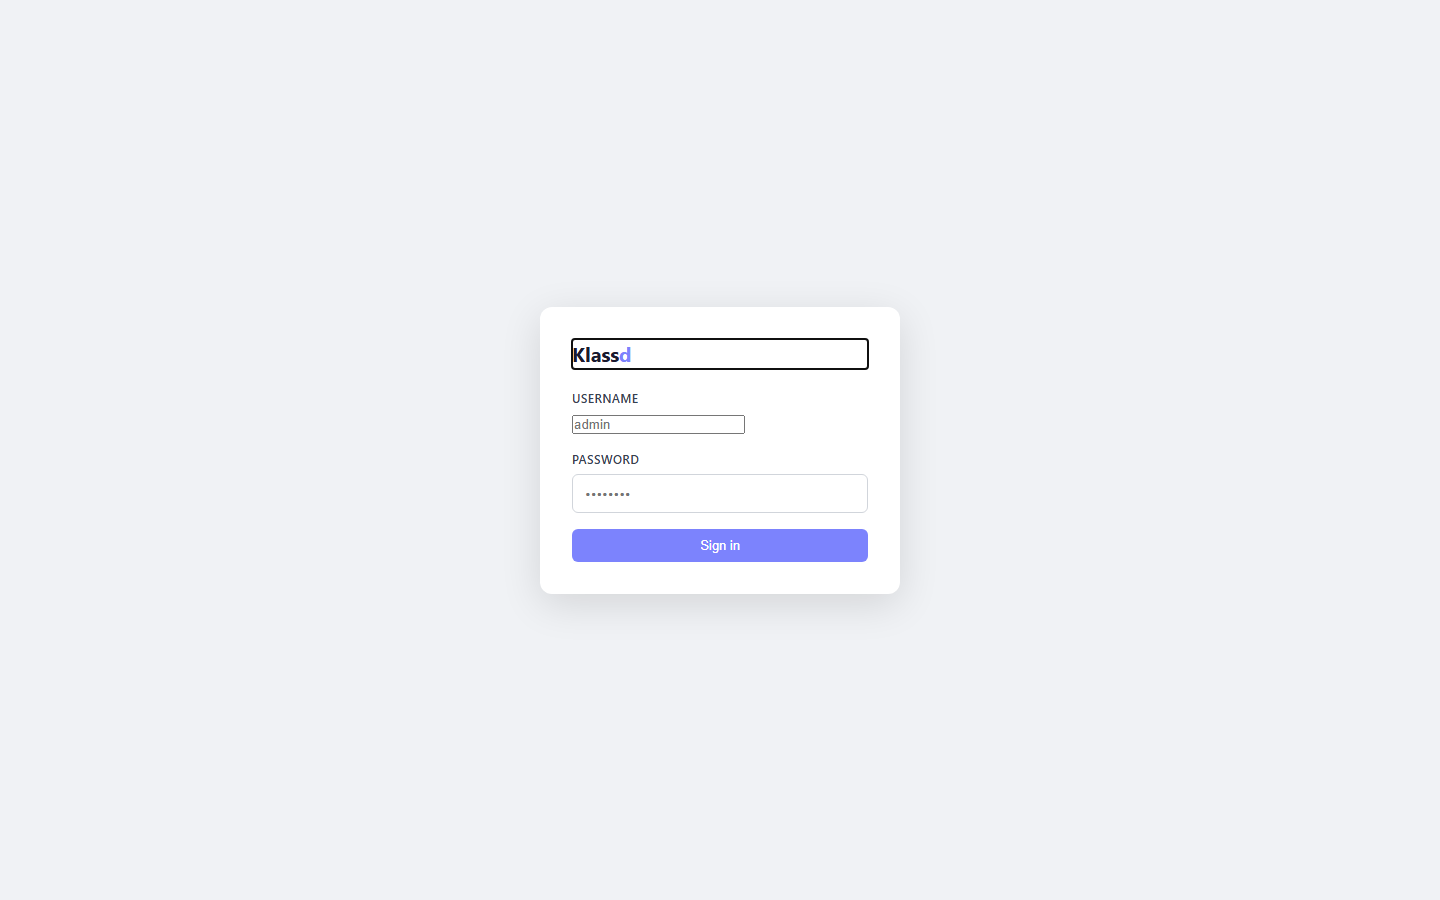
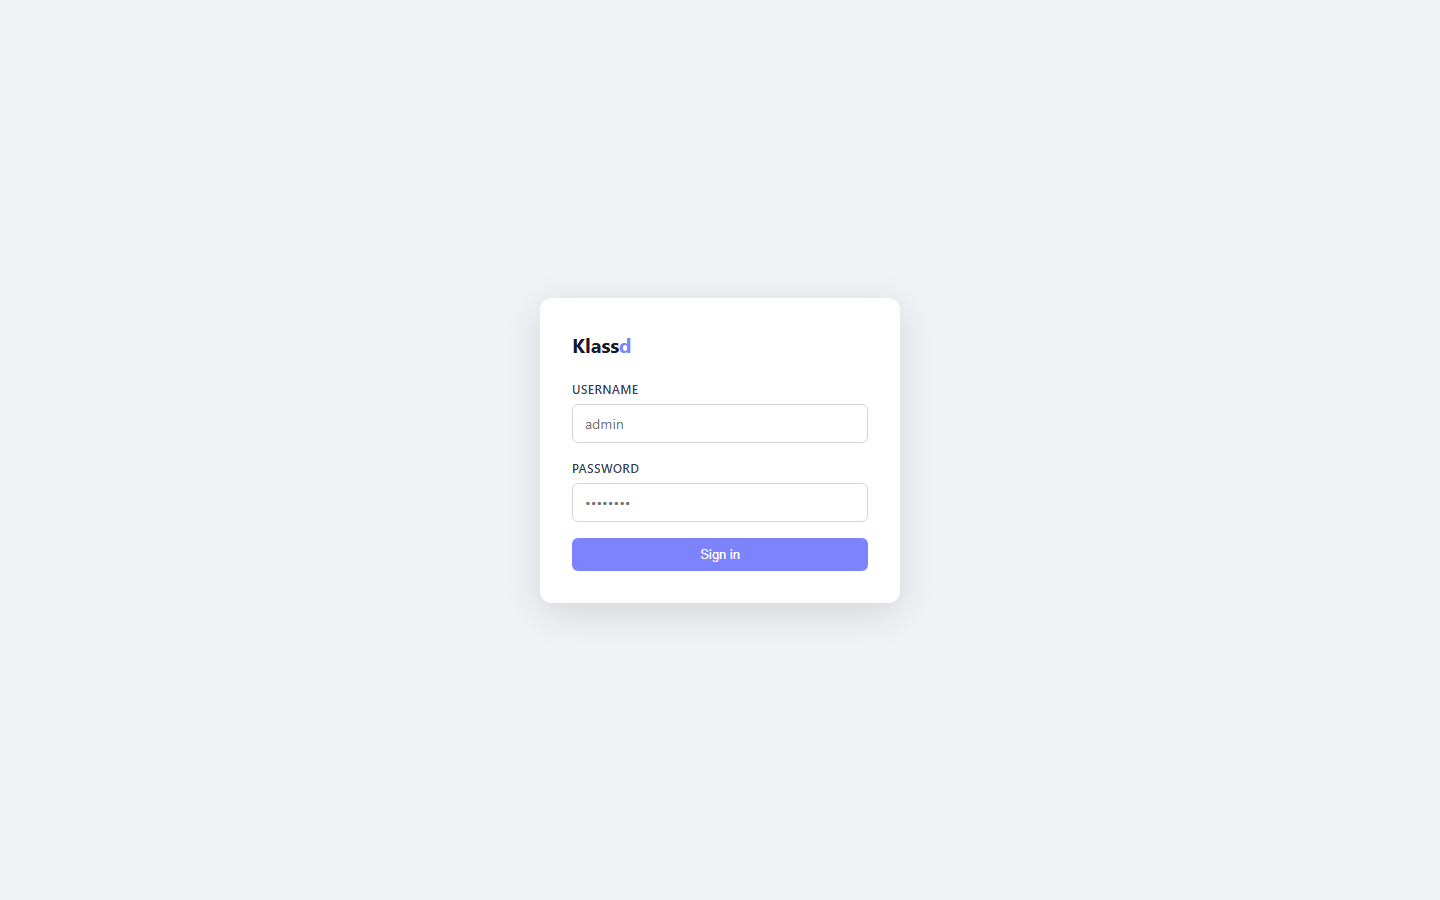
fix: correct login input styling and tidy login screenshot
- Login.razor: the username field had no `type` attribute, so the
  `input[type="text"]` rule never matched it — it rendered narrow and
  unstyled next to the full-width password box. Add `type="text"`.
- Screenshot capture: blur the auto-focused <h1> before the login shot so
  the navigation focus outline (mouse users never see it) is not captured.
- README: include all six admin screenshots in the gallery.

Changed region(s): [[0.375, 0.3733, 0.625, 0.6844]]

diff --git a/tests/Klassd.UiTests/ScreenshotCaptureTests.cs b/tests/Klassd.UiTests/ScreenshotCaptureTests.cs
@@ -63,6 +63,9 @@ public class ScreenshotCaptureTests : PageTest
         // ── 1. Login screen ───────────────────────────────────────────
         await Page.GotoAsync(Url("/admin/login"));
         await Expect(Page.Locator(".login-card")).ToBeVisibleAsync();
+        // The app focuses the main <h1> on navigation (accessibility); that shows a focus outline
+        // on the heading. Mouse users never see it, but it's noise in a screenshot — clear focus.
+        await Page.EvaluateAsync("() => (document.activeElement && document.activeElement.blur) && document.activeElement.blur()");
         await ShotAsync("01-login.png", fullPage: false);
 
         // Sign in with the seeded admin account.

diff --git a/README.md b/README.md
@@ -25,11 +25,13 @@ No content-type designer, no database migrations to hand-write, no JavaScript bu
 The Blazor admin at `/admin` is generated from your C# content types — no JavaScript build step,
 no separate schema to maintain. Pages, blocks, fields, media and localization all come from your code.
 
-| Page tree | Page editor (fields + blocks) |
+| Sign in | Page tree |
 |:---:|:---:|
-| [![Pages](docs/images/02-pages.png)](docs/images/02-pages.png) | [![Page editor](docs/images/03-page-editor.png)](docs/images/03-page-editor.png) |
-| **Media library** | **Users** |
-| [![Media](docs/images/04-media.png)](docs/images/04-media.png) | [![Users](docs/images/05-users.png)](docs/images/05-users.png) |
+| [![Sign in](docs/images/01-login.png)](docs/images/01-login.png) | [![Pages](docs/images/02-pages.png)](docs/images/02-pages.png) |
+| **Page editor (fields + blocks)** | **Media library** |
+| [![Page editor](docs/images/03-page-editor.png)](docs/images/03-page-editor.png) | [![Media](docs/images/04-media.png)](docs/images/04-media.png) |
+| **Users** | **Dictionary** |
+| [![Users](docs/images/05-users.png)](docs/images/05-users.png) | [![Dictionary](docs/images/06-dictionary.png)](docs/images/06-dictionary.png) |
 
 The page editor above is fully driven by the `HomePage`/`HeroBlock` C# classes — the `Title` field,
 the `Hero Blocks` area, and per-block scheduling are all reflected from your model.
